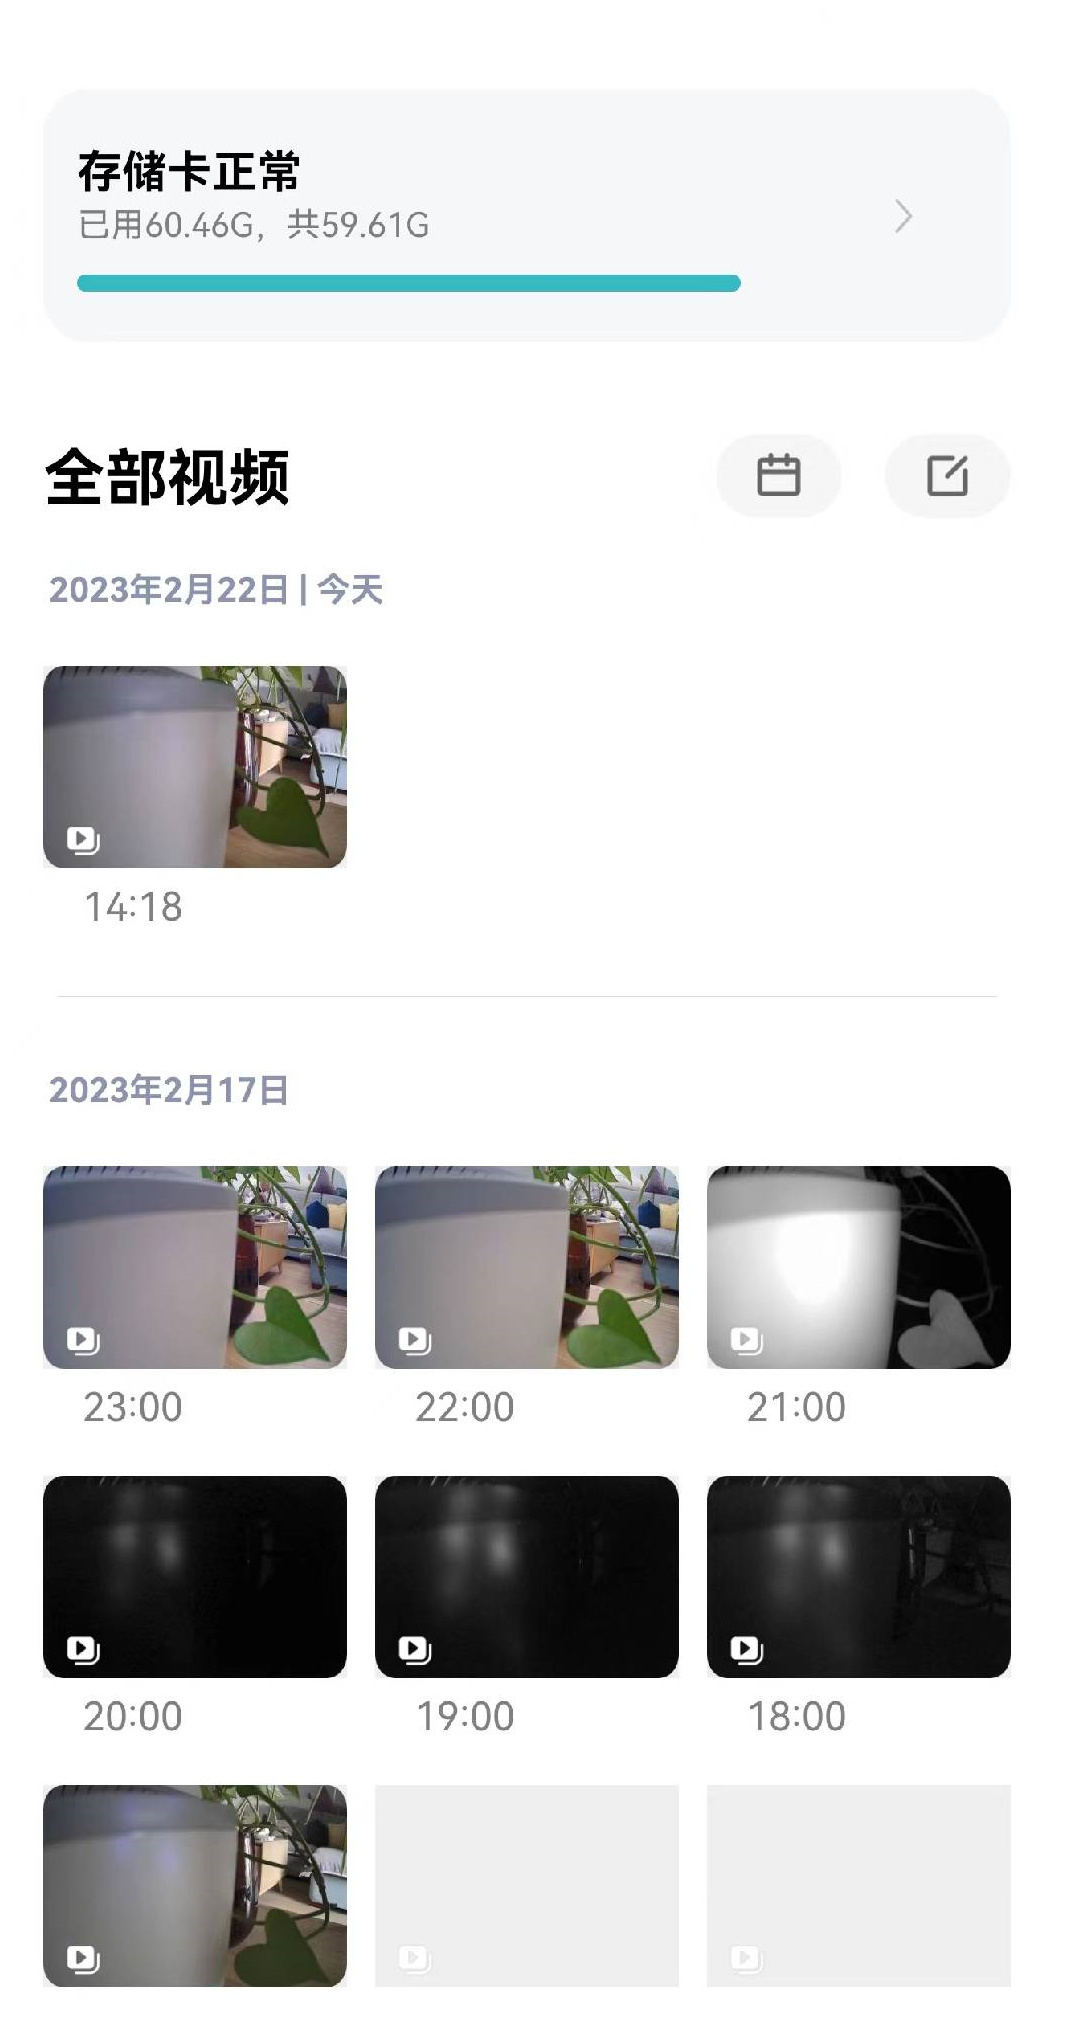
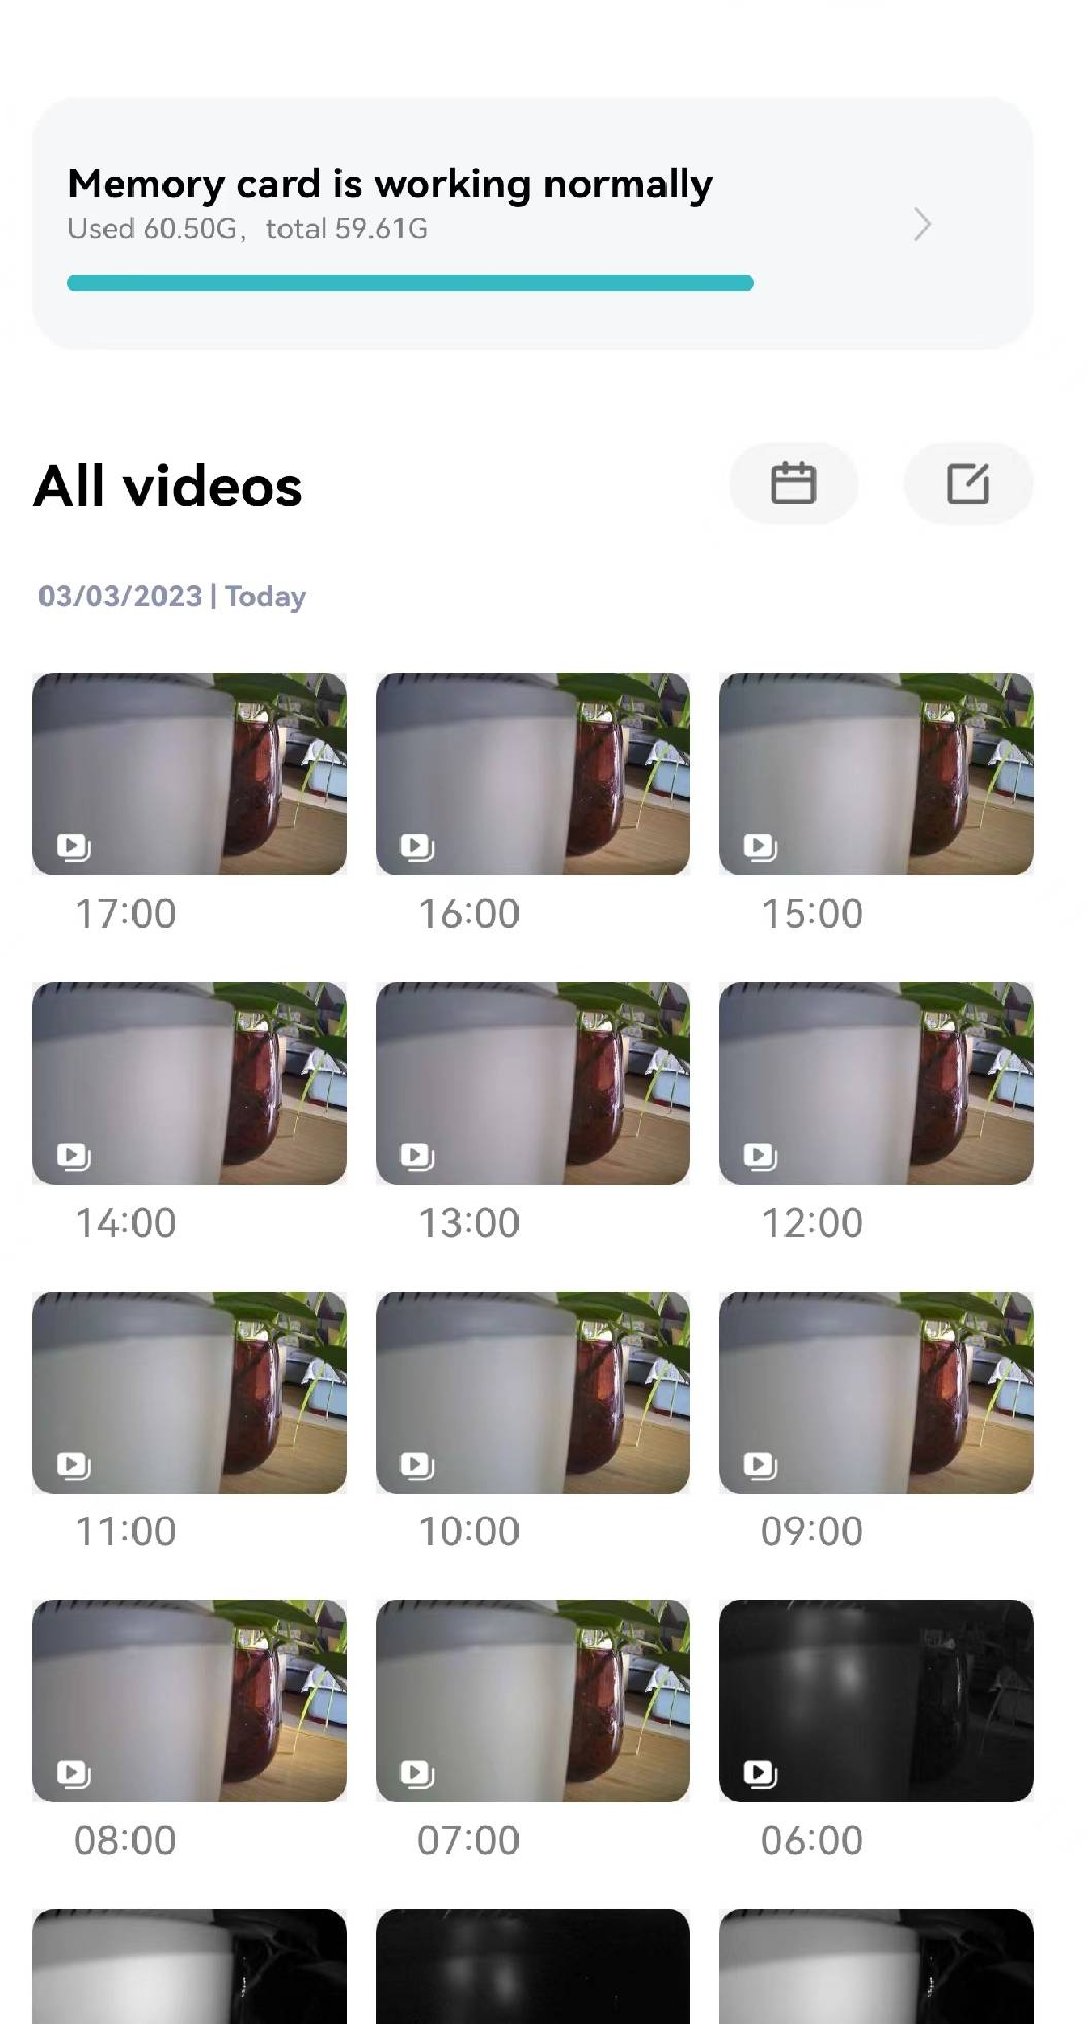
摄像机页变英语

diff --git a/lib/pages/vidicon/index.dart b/lib/pages/vidicon/index.dart
@@ -43,7 +43,7 @@ class _VidiconState extends State<Vidicon> {
   @override
   Widget build(BuildContext context) {
     return Scaffold(
-        appBar: customAppbar(context: context, title: '摄像机'),
+        appBar: customAppbar(context: context, title: 'Camera'),
         body: SingleChildScrollView(
           child: InkWell(
             onTap: () => closeKeyboard(context),
@@ -107,9 +107,10 @@ class _VidiconState extends State<Vidicon> {
                                       crossAxisAlignment:
                                           CrossAxisAlignment.start,
                                       children: [
-                                        Text('看家',
+                                        Text('Surveillance',
                                             style: TextStyle(fontSize: 30.sp)),
-                                        Text('拍摄到的重要事件 ',
+                                            //拍摄到的重要事件 
+                                        Text('Recorded important events',
                                             style: TextStyle(
                                                 fontSize: 24.sp,
                                                 color: const Color.fromRGBO(
@@ -161,9 +162,9 @@ class _VidiconState extends State<Vidicon> {
                                       crossAxisAlignment:
                                           CrossAxisAlignment.start,
                                       children: [
-                                        Text('回看',
+                                        Text('Playback',
                                             style: TextStyle(fontSize: 30.sp)),
-                                        Text('查看历史监测记录 ',
+                                        Text('Vlew surveillance history',
                                             style: TextStyle(
                                                 fontSize: 24.sp,
                                                 color: const Color.fromRGBO(
@@ -215,9 +216,9 @@ class _VidiconState extends State<Vidicon> {
                                       crossAxisAlignment:
                                           CrossAxisAlignment.start,
                                       children: [
-                                        Text('存储管理',
+                                        Text('Storage management',
                                             style: TextStyle(fontSize: 30.sp)),
-                                        Text('云存、SD卡和本地 ',
+                                        Text('cloud、SD card and local ',
                                             style: TextStyle(
                                                 fontSize: 24.sp,
                                                 color: const Color.fromRGBO(

diff --git a/lib/pages/vidicon/storage_administration.dart b/lib/pages/vidicon/storage_administration.dart
@@ -31,21 +31,21 @@ class _AtorageAdministrationState extends State<AtorageAdministration> {
             appBar: AppBar(
               bottom: const TabBar(
                 tabs: <Widget>[
-                  Tab(text: "云存"),
-                  Tab(text: "本地"),
-                  Tab(text: "SD卡")
+                  Tab(text: "Cloud"),
+                  Tab(text: "Locak"),
+                  Tab(text: "SD Card")
                 ],
               ),
             ),
             body: TabBarView(children: <Widget>[
               ListView(
                 children: const <Widget>[
-                  ListTile(title: Text("暂未开通")),
+                  ListTile(title: Text("Not open yet")),
                 ],
               ),
               ListView(
                 children: const <Widget>[
-                  ListTile(title: Text("暂未下载")),
+                  ListTile(title: Text("Not downloaded yet")),
                 ],
               ),
               InkWell(

diff --git a/lib/pages/vidicon/look_back.dart b/lib/pages/vidicon/look_back.dart
@@ -32,13 +32,13 @@ class _LookBackState extends State<LookBack> {
               // backgroundColor: Colors.white,
               centerTitle: true,
               bottom: const TabBar(
-                tabs: <Widget>[Tab(text: "云存"), Tab(text: "SD卡")],
+                tabs: <Widget>[Tab(text: "cloud"), Tab(text: "SD Card")],
               ),
             ),
             body: TabBarView(children: <Widget>[
               ListView(
                 children: const <Widget>[
-                  ListTile(title: Text("暂未开通")),
+                  ListTile(title: Text("Not open yet")),
                 ],
               ),
               InkWell(

diff --git a/lib/pages/vidicon/look_house.dart b/lib/pages/vidicon/look_house.dart
@@ -27,14 +27,12 @@ class _LookHouseState extends State<LookHouse> {
   @override
   Widget build(BuildContext context) {
     return Scaffold(
-        appBar: customAppbar(context: context, title: '看家'),
+        appBar: customAppbar(context: context, title: 'Home surveillance'),
         body: SingleChildScrollView(
           child: InkWell(
             onTap: () => closeKeyboard(context),
             child: const Image(
               image: AssetImage('assets/images/lookhouse.png'),
-              width: 390,
-              height: 700,
             ),
           ),
         ));
